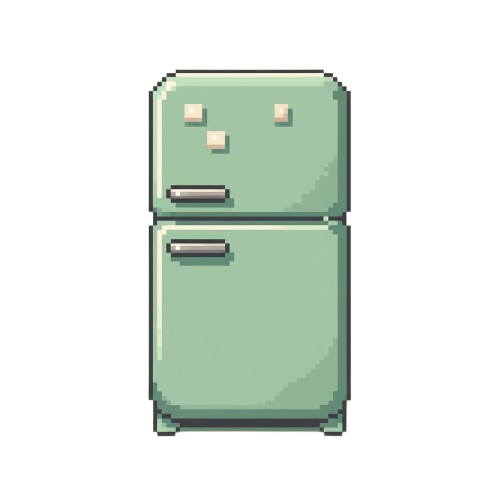
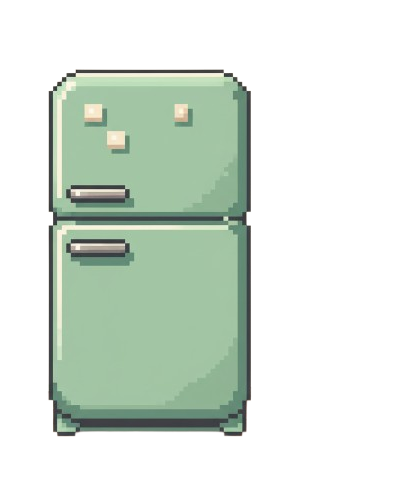
sem legendas

Changed region(s): [[0.12, 0.12, 0.48, 0.9], [0.54, 0.12, 0.72, 0.87], [0.36, 0.21, 0.48, 0.33]]

diff --git a/project/js/draw.js b/project/js/draw.js
@@ -66,10 +66,6 @@ function draw(timestamp) {
       ctx.strokeStyle = "#0b2430";
       ctx.strokeRect(d.x, d.y, d.w, d.h);
     }
-    ctx.fillStyle = "#07202a";
-    ctx.font = "12px Arial";
-    ctx.fillText(d.label, d.x, d.y + d.h + 16);
-    ctx.restore();
 
     if (d.on) {
       const t = now / 300 + 1.2;
@@ -110,8 +106,14 @@ function draw(timestamp) {
 
   ctx.save();
   const movingNow = Boolean(
-    keys.ArrowUp || keys.ArrowDown || keys.ArrowLeft || keys.ArrowRight ||
-    keys.w || keys.a || keys.s || keys.d
+    keys.ArrowUp ||
+      keys.ArrowDown ||
+      keys.ArrowLeft ||
+      keys.ArrowRight ||
+      keys.w ||
+      keys.a ||
+      keys.s ||
+      keys.d
   );
   let bob = 0;
   let drawRadius = player.r;
@@ -284,7 +286,7 @@ function draw(timestamp) {
   if (keys.ArrowUp || keys.w) vy -= 1;
   if (keys.ArrowDown || keys.s) vy += 1;
   if (keys.ArrowLeft || keys.a) vx -= 1;
-  if (keys.ArrowRight || keys.d) vx += 1;   
+  if (keys.ArrowRight || keys.d) vx += 1;
   if (vx !== 0 || vy !== 0) {
     const len = Math.sqrt(vx * vx + vy * vy);
     vx = (vx / len) * player.speed;

diff --git a/project/js/state.js b/project/js/state.js
@@ -39,9 +39,9 @@ const devices = [
     label: "Frigorífico",
     type: "fridge",
     power: 120,
-    x: 163,
+    x: 175,
     y: 105,
-    w: 125,
+    w: 105,
     h: 125,
     on: false,
   },
